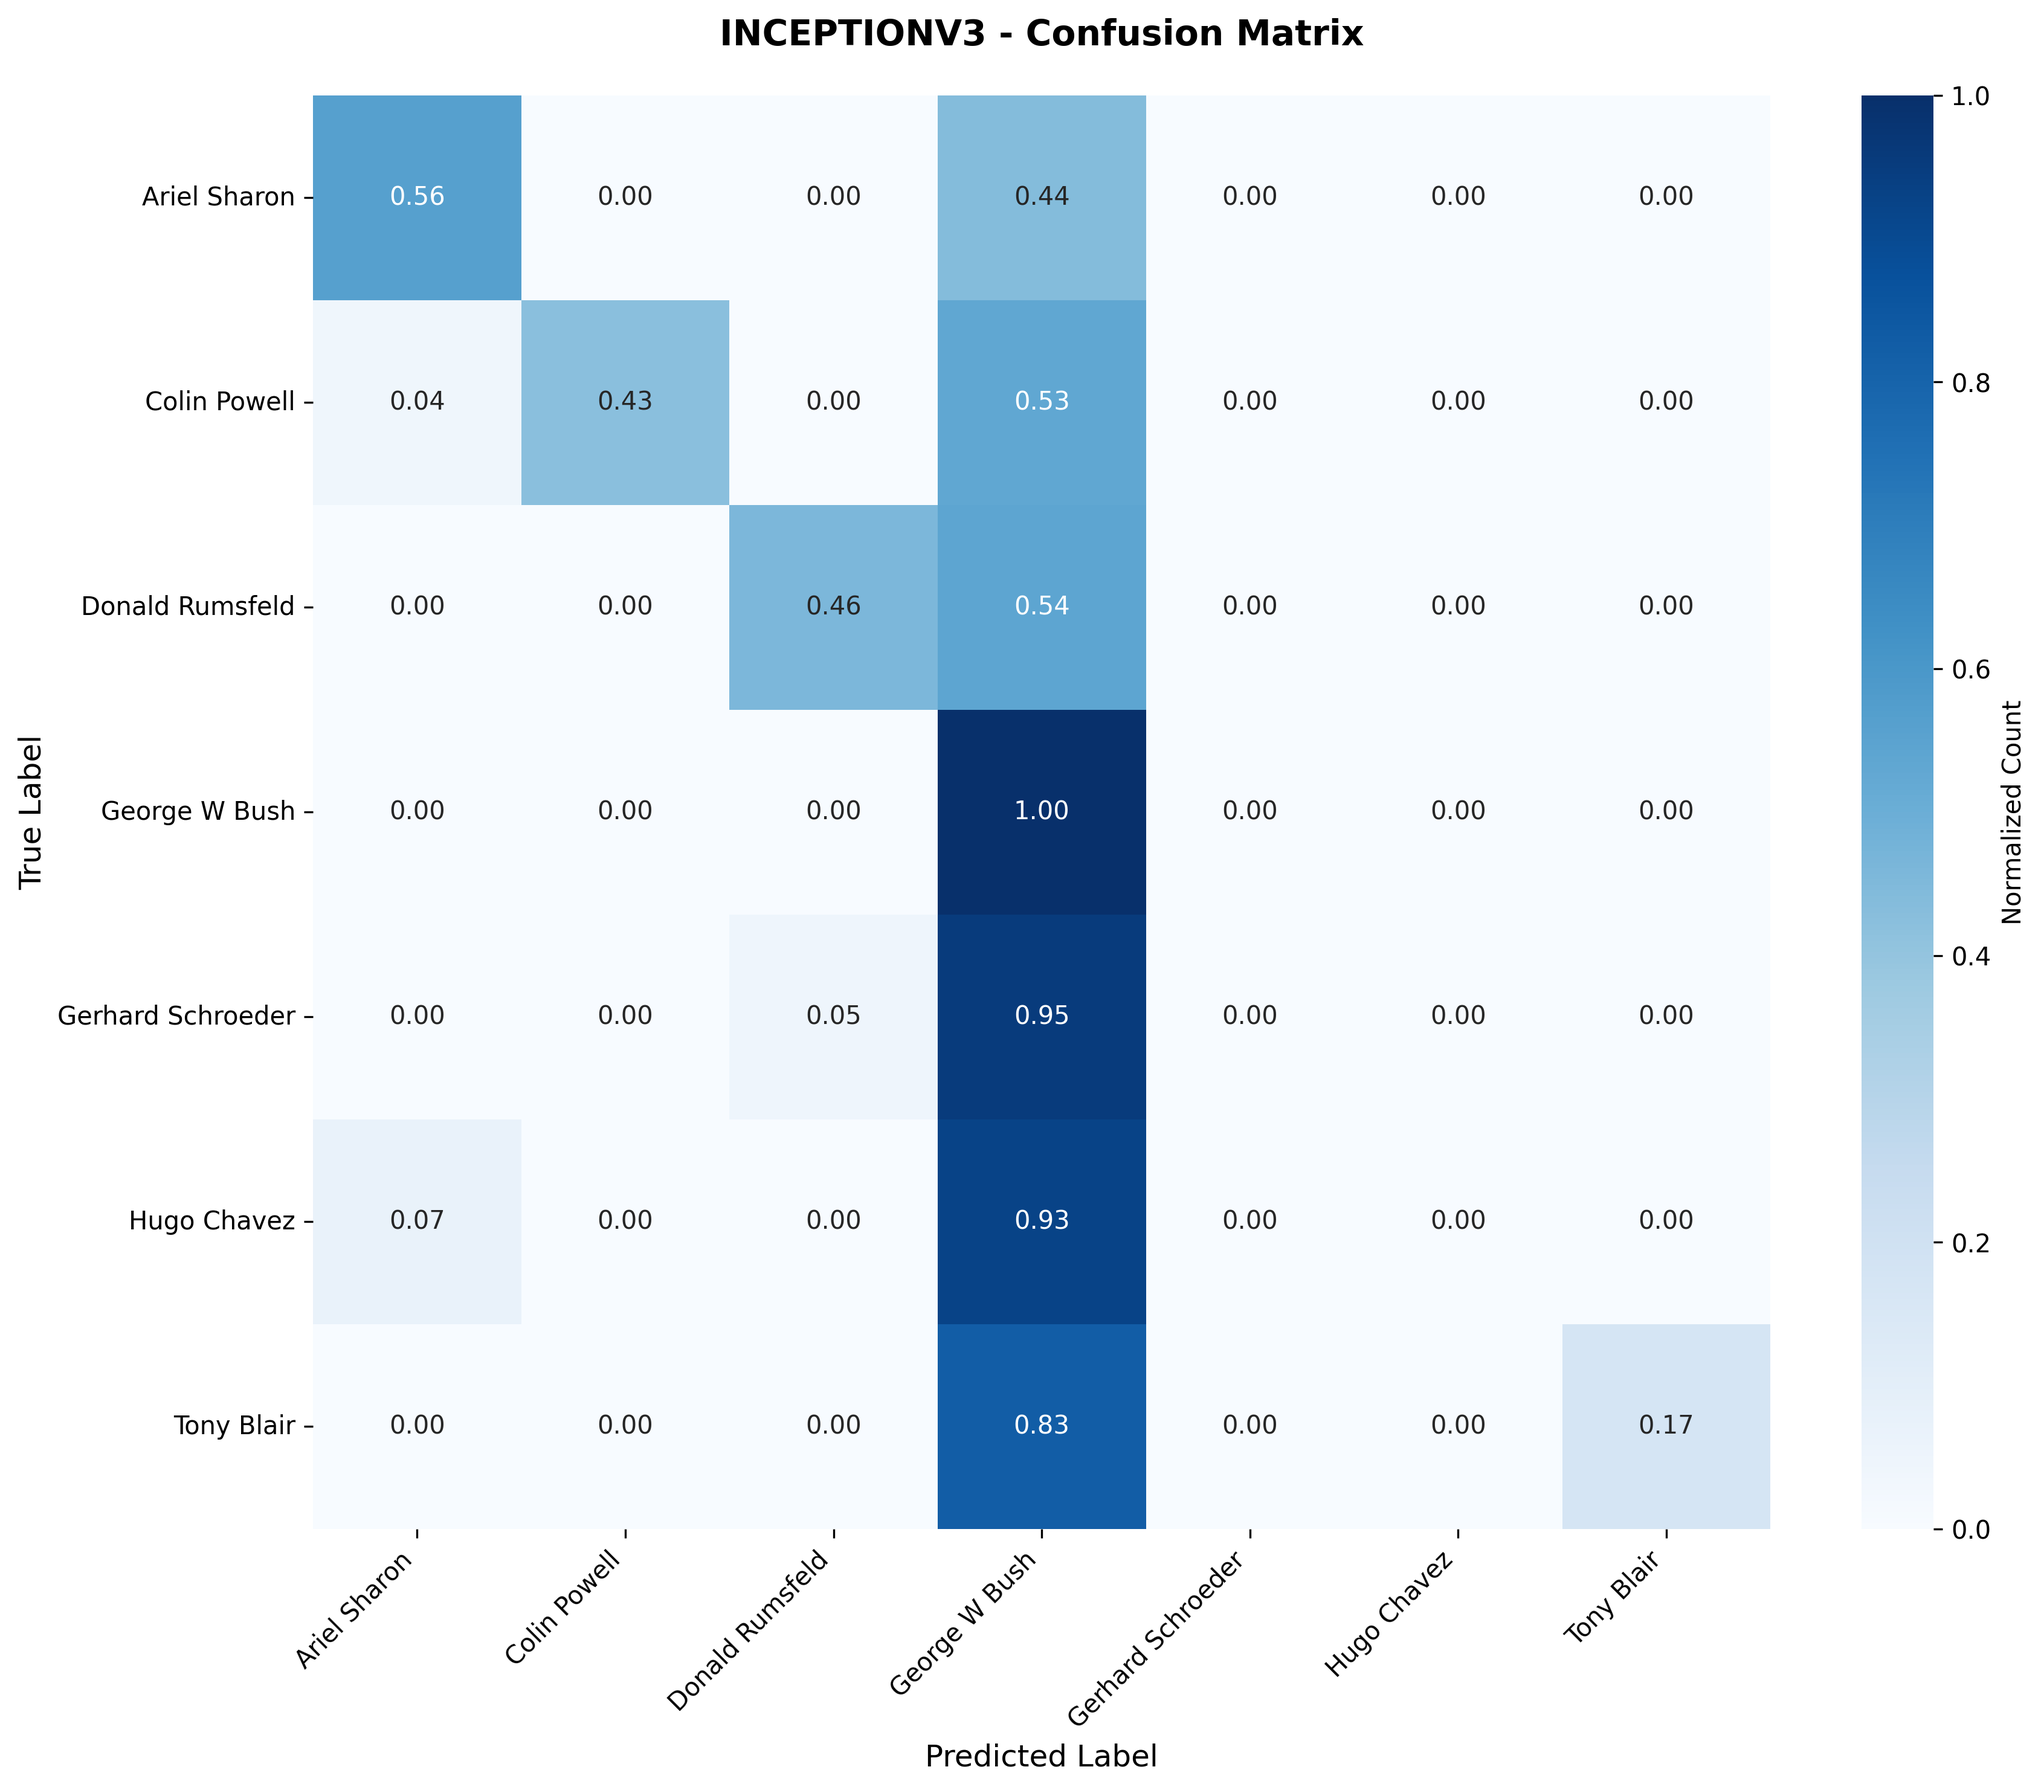
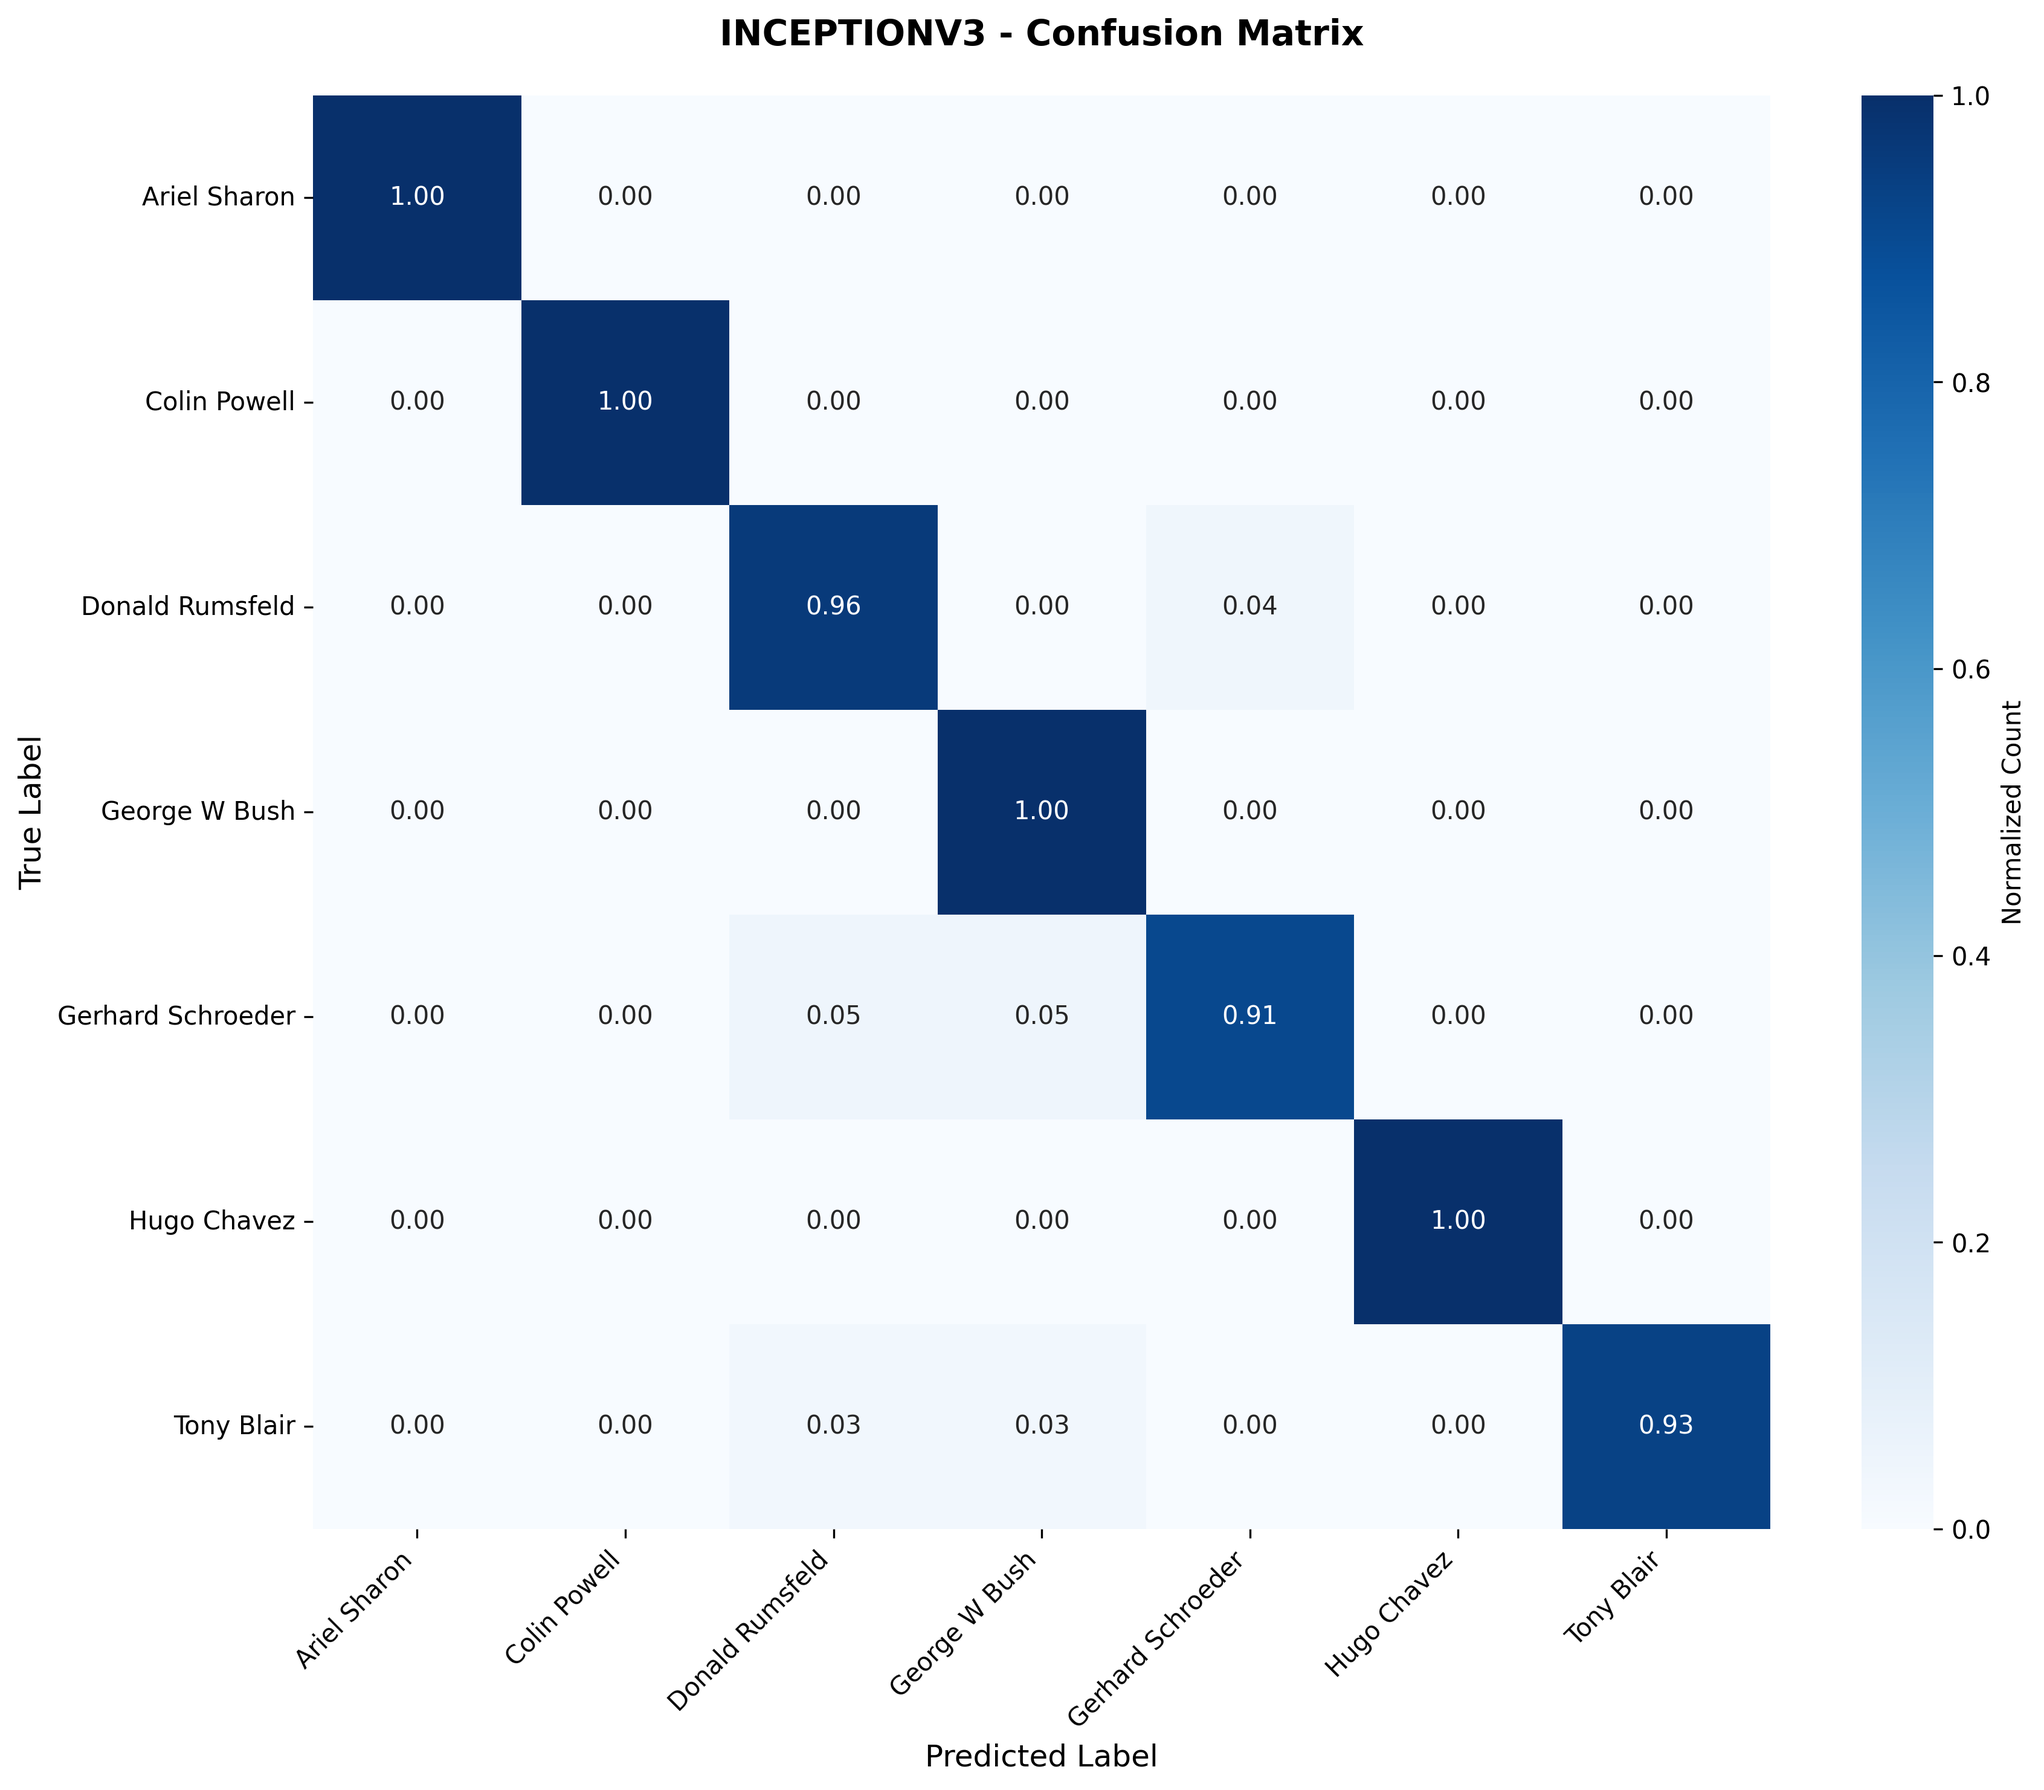
Fix low model accuracy - achieve 98% on InceptionV3
Key fixes:
- Remove double normalization: keep images in [0,255] range for model preprocess_input
- Add class weighting to handle class imbalance
- Add BatchNormalization to ResNet and EfficientNet classification heads
- Increase learning rates: 0.001 for phase 1, 0.0001 for phase 2
- Increase batch sizes: 32 for phase 1, 16 for phase 2
- Enhanced data augmentation with brightness, shear, and zoom
- Save models in native Keras format (.keras) for better compatibility

Results:
- InceptionV3: 98.06% test accuracy (was 58.53%)
- Top-3 accuracy: 100%

Changed region(s): [[0.4345, 0.4968, 0.8691, 0.8694], [0.1552, 0.031, 0.5587, 0.4036]]

diff --git a/src/train.py b/src/train.py
@@ -5,6 +5,7 @@ import matplotlib.pyplot as plt
 import os
 from tensorflow.keras.callbacks import ModelCheckpoint, EarlyStopping, ReduceLROnPlateau
 from tensorflow.keras.preprocessing.image import ImageDataGenerator
+from sklearn.utils.class_weight import compute_class_weight
 import time
 
 from model_resnet import create_resnet50_model, compile_model as compile_resnet, unfreeze_and_fine_tune as finetune_resnet
@@ -36,43 +37,59 @@ class OptimizedTrainer:
         print(f"✓ Loaded!")
         print(f"  Train: {len(self.X_train)}, Val: {len(self.X_val)}, Test: {len(self.X_test)}")
         print(f"  Classes: {self.num_classes}")
-        
-        # Data augmentation
+
+        # Compute class weights to handle imbalanced classes
+        y_train_labels = np.argmax(self.y_train, axis=1)
+        class_weights = compute_class_weight(
+            class_weight='balanced',
+            classes=np.unique(y_train_labels),
+            y=y_train_labels
+        )
+        self.class_weight = dict(enumerate(class_weights))
+        print(f"  Class weights: {[f'{w:.2f}' for w in class_weights]}")
+
+        # Enhanced data augmentation for small dataset
         self.datagen = ImageDataGenerator(
-            rotation_range=15,
-            width_shift_range=0.15,
-            height_shift_range=0.15,
+            rotation_range=20,
+            width_shift_range=0.2,
+            height_shift_range=0.2,
             horizontal_flip=True,
-            zoom_range=0.1,
+            zoom_range=0.15,
+            brightness_range=[0.8, 1.2],
+            shear_range=0.1,
             fill_mode='nearest'
         )
         
     def create_model(self):
         print(f"\nCreating {self.model_name}...")
-        
+
         input_shape = self.X_train.shape[1:]
-        
+
+        # Higher learning rate for frozen base model training (Phase 1)
+        initial_lr = 0.001
+
         if self.model_name == 'resnet50':
             self.model, self.base_model = create_resnet50_model(input_shape, self.num_classes)
-            self.model = compile_resnet(self.model, learning_rate=0.0005)  # Lower LR
+            self.model = compile_resnet(self.model, learning_rate=initial_lr)
         elif self.model_name == 'inceptionv3':
             self.model, self.base_model = create_inceptionv3_model(input_shape, self.num_classes)
-            self.model = compile_inception(self.model, learning_rate=0.0005)
+            self.model = compile_inception(self.model, learning_rate=initial_lr)
         elif self.model_name == 'efficientnetb0':
             self.model, self.base_model = create_efficientnet_model(input_shape, self.num_classes)
-            self.model = compile_efficientnet(self.model, learning_rate=0.0005)
-        
+            self.model = compile_efficientnet(self.model, learning_rate=initial_lr)
+
         print(f"✓ Created! Parameters: {self.model.count_params():,}")
         
-    def train_initial(self, epochs=50, batch_size=16):
+    def train_initial(self, epochs=50, batch_size=32):
         print(f"\n{'='*60}")
-        print(f"PHASE 1: Initial Training")
+        print(f"PHASE 1: Initial Training (Frozen Base)")
         print(f"  Epochs: {epochs}, Batch: {batch_size}")
+        print(f"  Using class weights to handle imbalance")
         print(f"{'='*60}\n")
-        
+
         callbacks = [
             ModelCheckpoint(
-                f'models/{self.model_name}/{self.model_name}_initial_best.h5',
+                f'models/{self.model_name}/{self.model_name}_initial_best.keras',
                 monitor='val_accuracy',
                 save_best_only=True,
                 mode='max',
@@ -80,7 +97,7 @@ class OptimizedTrainer:
             ),
             EarlyStopping(
                 monitor='val_accuracy',
-                patience=20,
+                patience=15,
                 restore_best_weights=True,
                 mode='max',
                 verbose=1
@@ -88,44 +105,49 @@ class OptimizedTrainer:
             ReduceLROnPlateau(
                 monitor='val_loss',
                 factor=0.5,
-                patience=8,
+                patience=5,
                 min_lr=1e-7,
                 verbose=1
             )
         ]
-        
+
         start = time.time()
-        
+
         history = self.model.fit(
             self.datagen.flow(self.X_train, self.y_train, batch_size=batch_size),
             validation_data=(self.X_val, self.y_val),
             epochs=epochs,
             steps_per_epoch=len(self.X_train) // batch_size,
             callbacks=callbacks,
-            verbose=2  # Less verbose output
+            class_weight=self.class_weight,
+            verbose=2
         )
-        
+
         elapsed = (time.time() - start) / 60
         print(f"\n✓ Phase 1 done in {elapsed:.1f} min")
-        
+
         return history
     
-    def train_finetune(self, epochs=50, batch_size=8):
+    def train_finetune(self, epochs=50, batch_size=16):
         print(f"\n{'='*60}")
-        print(f"PHASE 2: Fine-Tuning")
+        print(f"PHASE 2: Fine-Tuning (Unfrozen Layers)")
         print(f"  Epochs: {epochs}, Batch: {batch_size}")
+        print(f"  Using class weights to handle imbalance")
         print(f"{'='*60}\n")
-        
+
+        # Lower learning rate for fine-tuning
+        finetune_lr = 0.0001
+
         if self.model_name == 'resnet50':
-            self.model = finetune_resnet(self.model, self.base_model, learning_rate=0.00005)
+            self.model = finetune_resnet(self.model, self.base_model, learning_rate=finetune_lr)
         elif self.model_name == 'inceptionv3':
-            self.model = finetune_inception(self.model, self.base_model, learning_rate=0.00005)
+            self.model = finetune_inception(self.model, self.base_model, learning_rate=finetune_lr)
         elif self.model_name == 'efficientnetb0':
-            self.model = finetune_efficientnet(self.model, self.base_model, learning_rate=0.00005)
-        
+            self.model = finetune_efficientnet(self.model, self.base_model, learning_rate=finetune_lr)
+
         callbacks = [
             ModelCheckpoint(
-                f'models/{self.model_name}/{self.model_name}_finetune_best.h5',
+                f'models/{self.model_name}/{self.model_name}_finetune_best.keras',
                 monitor='val_accuracy',
                 save_best_only=True,
                 mode='max',
@@ -133,7 +155,7 @@ class OptimizedTrainer:
             ),
             EarlyStopping(
                 monitor='val_accuracy',
-                patience=20,
+                patience=15,
                 restore_best_weights=True,
                 mode='max',
                 verbose=1
@@ -141,26 +163,27 @@ class OptimizedTrainer:
             ReduceLROnPlateau(
                 monitor='val_loss',
                 factor=0.5,
-                patience=8,
+                patience=5,
                 min_lr=1e-8,
                 verbose=1
             )
         ]
-        
+
         start = time.time()
-        
+
         history = self.model.fit(
             self.datagen.flow(self.X_train, self.y_train, batch_size=batch_size),
             validation_data=(self.X_val, self.y_val),
             epochs=epochs,
             steps_per_epoch=len(self.X_train) // batch_size,
             callbacks=callbacks,
+            class_weight=self.class_weight,
             verbose=2
         )
-        
+
         elapsed = (time.time() - start) / 60
         print(f"\n✓ Phase 2 done in {elapsed:.1f} min")
-        
+
         return history
     
     def plot_and_save(self, history1, history2):
@@ -196,7 +219,7 @@ class OptimizedTrainer:
         plt.savefig(f'docs/results/{self.model_name}_training_history.png', dpi=300)
         plt.close()
         
-        self.model.save(f'models/{self.model_name}/{self.model_name}_final.h5')
+        self.model.save(f'models/{self.model_name}/{self.model_name}_final.keras')
         
         print(f"\n✓ Model saved!")
         print(f"  Final val accuracy: {val_acc[-1]:.4f} ({val_acc[-1]*100:.2f}%)")

diff --git a/src/data_preprocessing.py b/src/data_preprocessing.py
@@ -54,21 +54,23 @@ class DataPreprocessor:
         print("\n" + "="*60)
         print("PREPROCESSING")
         print("="*60)
-        print(f"\nResizing to {self.resize} and normalizing...")
-        
+        print(f"\nResizing to {self.resize}...")
+        print("NOTE: Images kept in [0, 255] range for model preprocess_input")
+
         processed_images = []
-        
+
         for i, img in enumerate(X):
             if (i + 1) % 100 == 0:
                 print(f"  {i+1}/{len(X)} images processed ({(i+1)/len(X)*100:.1f}%)", end='\r')
-            
+
+            # Convert to uint8 if needed
             if img.dtype != np.uint8:
                 img = (img * 255).astype(np.uint8)
-            
+
             img_resized = cv2.resize(img, self.resize)
-            img_normalized = img_resized.astype('float32') / 255.0
-            processed_images.append(img_normalized)
-        
+            # Keep as float32 in [0, 255] range - model's preprocess_input will handle normalization
+            processed_images.append(img_resized.astype('float32'))
+
         print(f"\n✓ All images preprocessed!")
         return np.array(processed_images)
     

diff --git a/src/evaluate.py b/src/evaluate.py
@@ -29,9 +29,19 @@ class ModelEvaluator:
         print(f"✓ Test data loaded: {len(self.X_test)} samples, {len(self.class_names)} classes")
         
     def load_model(self):
-        model_path = f'models/{self.model_name}/{self.model_name}_final.h5'
+        # Try native Keras format first, then fallback to H5
+        model_path_keras = f'models/{self.model_name}/{self.model_name}_final.keras'
+        model_path_h5 = f'models/{self.model_name}/{self.model_name}_final.h5'
+
+        if os.path.exists(model_path_keras):
+            model_path = model_path_keras
+        elif os.path.exists(model_path_h5):
+            model_path = model_path_h5
+        else:
+            raise FileNotFoundError(f"No model found at {model_path_keras} or {model_path_h5}")
+
         print(f"\nLoading model from {model_path}...")
-        
+
         self.model = keras.models.load_model(model_path)
         print("✓ Model loaded successfully!")
     

diff --git a/src/model_resnet.py b/src/model_resnet.py
@@ -18,9 +18,11 @@ def create_resnet50_model(input_shape=(128, 128, 3), num_classes=7):
     x = base_model(x, training=False)
     x = layers.GlobalAveragePooling2D()(x)
     x = layers.Dense(512, activation='relu')(x)
-    x = layers.Dropout(0.5)(x)
-    x = layers.Dense(256, activation='relu')(x)
+    x = layers.BatchNormalization()(x)
     x = layers.Dropout(0.3)(x)
+    x = layers.Dense(256, activation='relu')(x)
+    x = layers.BatchNormalization()(x)
+    x = layers.Dropout(0.2)(x)
     outputs = layers.Dense(num_classes, activation='softmax')(x)
     
     model = Model(inputs, outputs, name='resnet50_face_classifier')

diff --git a/src/model_efficientnet.py b/src/model_efficientnet.py
@@ -18,8 +18,10 @@ def create_efficientnet_model(input_shape=(128, 128, 3), num_classes=7):
     x = base_model(x, training=False)
     x = layers.GlobalAveragePooling2D()(x)
     x = layers.Dense(512, activation='relu')(x)
-    x = layers.Dropout(0.4)(x)
+    x = layers.BatchNormalization()(x)
+    x = layers.Dropout(0.3)(x)
     x = layers.Dense(256, activation='relu')(x)
+    x = layers.BatchNormalization()(x)
     x = layers.Dropout(0.2)(x)
     outputs = layers.Dense(num_classes, activation='softmax')(x)
     
